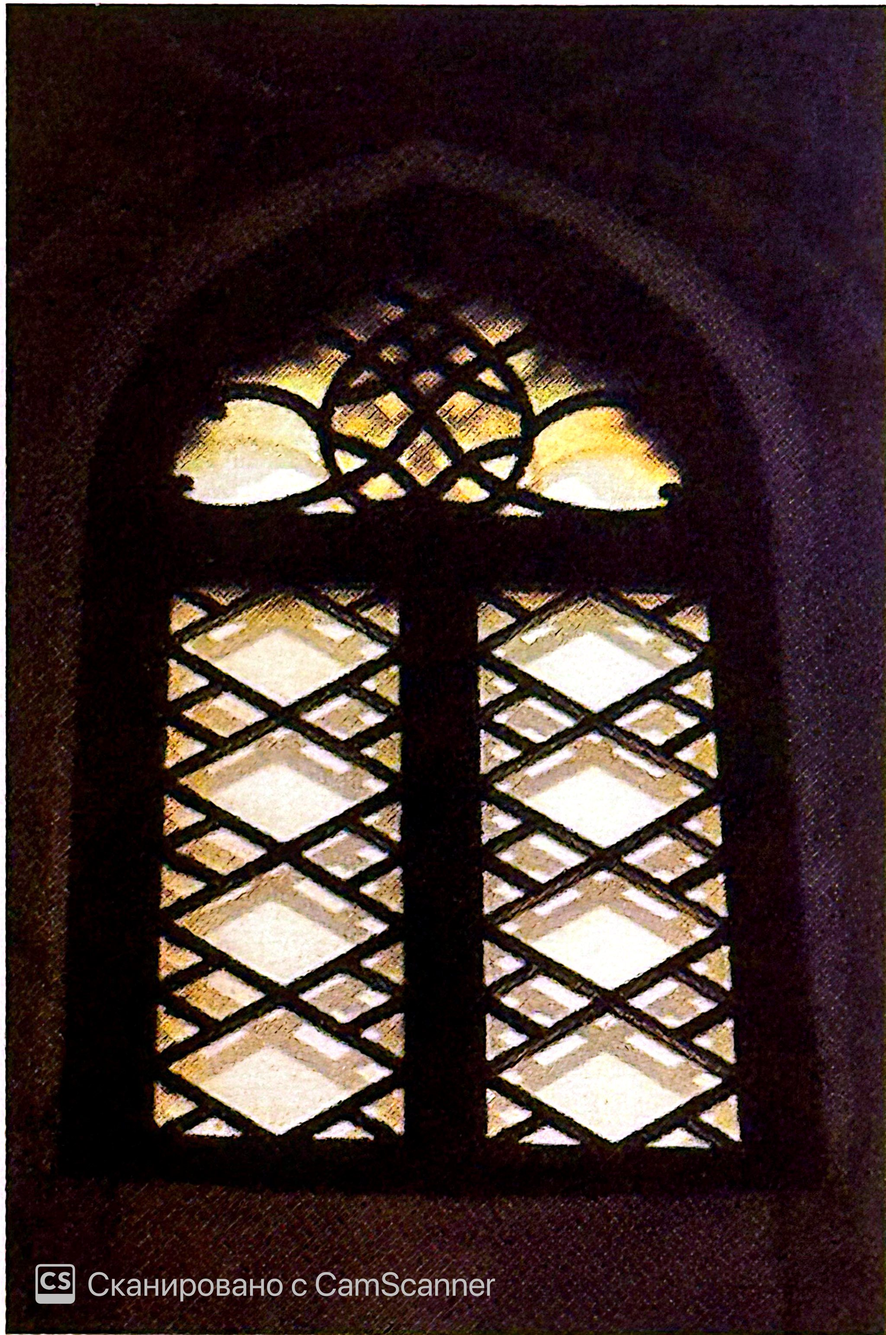
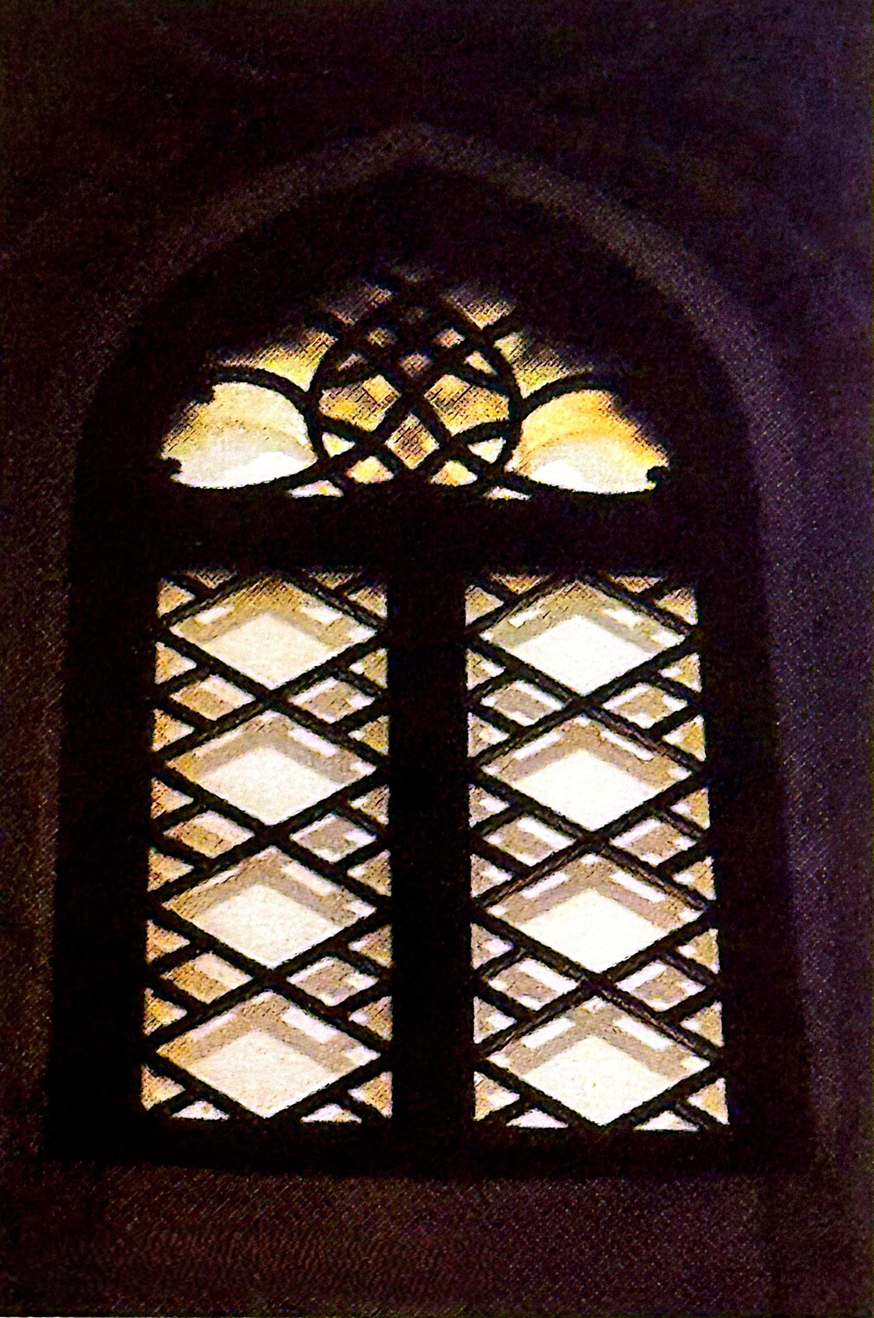
video

diff --git a/index.js b/index.js
@@ -566,13 +566,38 @@ function createInfoHotspotElement(hotspot) {
                         modelBlock.appendChild(modelViewer);
                         textContainer.appendChild(modelBlock);
                     }
+                    //else if (block.type === 'video') {
+                    //    var videoBlock = document.createElement('div');
+                    //    videoBlock.classList.add('content-block', 'content-video');
+                    //    var video = document.createElement('video');
+                    //    video.src = block.src;
+                    //    if (block.poster) video.poster = block.poster;
+                    //    video.controls = true;
+                    //    videoBlock.appendChild(video);
+                    //    textContainer.appendChild(videoBlock);
+                    //}
                     else if (block.type === 'video') {
                         var videoBlock = document.createElement('div');
                         videoBlock.classList.add('content-block', 'content-video');
+
                         var video = document.createElement('video');
-                        video.src = block.src;
-                        if (block.poster) video.poster = block.poster;
+
                         video.controls = true;
+                        video.preload = 'metadata'; // Загружаем только инфо о видео, чтобы не тормозило
+                        video.setAttribute('playsinline', ''); // Нужно для мобильных
+                        video.style.width = '100%';
+                        video.style.display = 'block';
+
+                        // Отладка
+                        video.onloadedmetadata = function () {
+                            console.log('✅ Видео найдено и готово:', block.src);
+                        };
+
+                        video.onerror = function () {
+                            console.error('❌ Ошибка загрузки видео. Проверьте путь:', encodeURI(block.src));
+                            console.error('Код ошибки:', video.error.code); // 4 = файл не найден, 3 = ошибка декодирования
+                        };
+
                         videoBlock.appendChild(video);
                         textContainer.appendChild(videoBlock);
                     }
@@ -746,17 +771,16 @@ floorPoints.forEach(function(point) {
 
     if (scene) {
       switchScene(scene);
-      hideSceneList(); // закрываем панель после перехода
+      hideSceneList(); // закрытие панель после перехода
     }
   });
 });
 
-/*========= НИЖНЕЕ МЕНЮ ==========*/
+/* Нижнее меню */
 var menuBtn = document.getElementById('btnMenuHidden');
 var hiddenMenu = document.getElementById('hiddenMenu');
-var audioOnOffBtn = document.getElementById('audioOnOff');
 
-// 4. Скрытое меню (Открыть/Закрыть)
+//  Скрытое меню (Открыть/Закрыть)
 if (menuBtn && hiddenMenu) {
     menuBtn.addEventListener('click', function (e) {
         e.preventDefault();
@@ -774,24 +798,16 @@ if (menuBtn && hiddenMenu) {
     });
 }
 
-// 5. Глобальный вкл/выкл звука (в меню)
-if (audioOnOffBtn) {
-    audioOnOffBtn.addEventListener('click', function (e) {
-        e.preventDefault();
-        e.stopPropagation();
-        if (gAudio) { gAudio.muted = !gAudio.muted; }
-        this.classList.toggle('enabled');
-    });
-}
-
-    // === АУДИОГИД ===
-var gAudio = null;
+//Аудиогид и звук
+var gAudio = null; //объект текущего аудио
+var isMuted = false;  //глобальное состояние звука
 var audioBtn = document.getElementById('audioBtn');
 var audioBar = document.getElementById('audioBar');
 var audioSeek = document.getElementById('audioSeek');
 var audioTime = document.getElementById('audioTime');
-var isMuted = false; 
+var audioOnOffBtn = document.getElementById('audioOnOff');
 
+//Обновление прогресс-бара и текстового таймера
 function updateTime() {
   if (gAudio && gAudio.duration && audioSeek && audioTime) {
     audioSeek.value = (gAudio.currentTime / gAudio.duration) * 100;
@@ -800,31 +816,24 @@ function updateTime() {
   }
 }
 
-// Функция для применения muted состояния к текущему аудио
+// Функция для применения глобального выключения(muted)  звука
 function applyMutedState() {
-    if (gAudio) {
-        gAudio.muted = isMuted;
-    }
-    // Обновляем визуальное состояние кнопки
+    if (gAudio) { gAudio.muted = isMuted; }
     if (audioOnOffBtn) {
-        if (isMuted) {
-            audioOnOffBtn.classList.add('enabled');
-        } else {
-            audioOnOffBtn.classList.remove('enabled');
-        }
+        audioOnOffBtn.classList.toggle('enabled', isMuted);
     }
 }
-
-// Обработчик кнопки глобального mute (в меню)
+   
+    // Обработчик кнопки глобального выключения звука (в меню)
 if (audioOnOffBtn) {
     audioOnOffBtn.addEventListener('click', function (e) {
         e.preventDefault();
         e.stopPropagation();
-        isMuted = !isMuted;  // Переключаем глобальный флаг
-        applyMutedState();    // Применяем к текущему аудио
+        isMuted = !isMuted;  // Переключение глобального флага
+        applyMutedState();    // Применение к текущему аудио
     });
 }
-
+    //Управление воспроизведением (Play/Pause)
 if (audioBtn) {
     audioBtn.addEventListener('click', function (e) {
         e.preventDefault();
@@ -838,7 +847,7 @@ if (audioBtn) {
     });
 }
 
-// Перемотка
+// Перемотка аужио через ползунок
 if (audioSeek) {
   audioSeek.oninput = function() {
     if (gAudio && gAudio.duration) {
@@ -897,7 +906,7 @@ var sceneInfoClose = document.querySelector('#sceneInfoModal .scene-info-close-w
 		e.stopPropagation();
 		
 		if (currentSceneWrapper && currentSceneWrapper.data.sceneInfo) {
-		  if (sceneInfoTitle) sceneInfoTitle.textContent = currentSceneWrapper.data.sceneInfo.title || '';
+		  if (sceneInfoTitle) sceneInfoTitle.textContent = currentSceneWrapper.data.sceneInfo.title;
 		  
 		  // Вызываем рендеринг без параметров
 		  renderSceneInfoContent();

diff --git a/data.js b/data.js
@@ -2269,7 +2269,7 @@ var APP_DATA = {
             "infoHotspots": [
                 {
                     "yaw": 0.0,
-                    "pitch": 0.71827129524185054,
+                    "pitch": -0.11827129524185054,
                     "title": "ГУАП! Учись, изобретай, живи!",
                     "content": [
                         {

diff --git a/index.html b/index.html
@@ -58,7 +58,7 @@
                 </a>
 
                 <a href="javascript:void(0)" class="scene" data-id="9-_1">
-                <li class="text">Георгиевскийзал (1)</li>
+                <li class="text">Георгиевский зал (1)</li>
                 </a>
 
                 <a href="javascript:void(0)" class="scene" data-id="10--">
